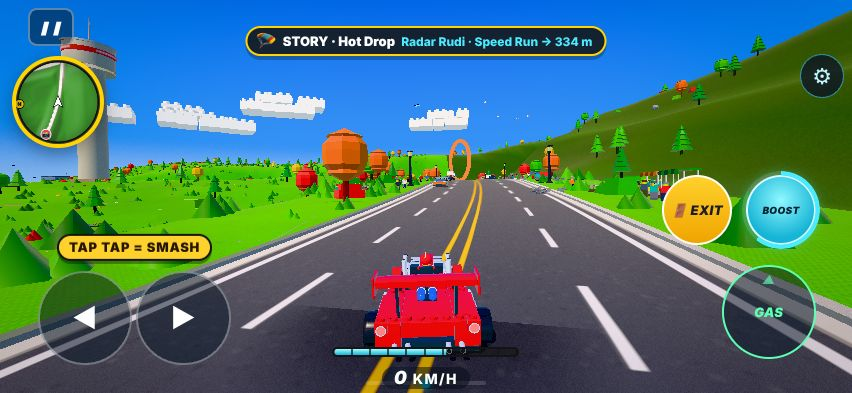
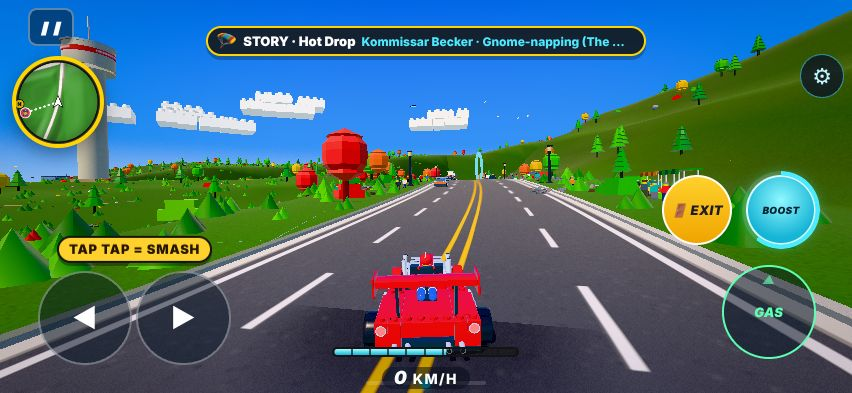
terr-1: nearer ridges (ring 0.4-1.6 km outside the city box, +55 m Frankfurt / +40 m Athens); in-city grass gets the slope tint; qt cache regenerated
Claude-Session: https://claude.ai/code/session_016nYa3nnBmCXxtYsLbvaATC

diff --git a/src/98tr_terrain.js b/src/98tr_terrain.js
@@ -66,4 +66,7 @@ window.__trn={TRN,go:TRN_go,grade:TRN_grade,edge:TRN_edge,ramp:TRN_ramp,base:TRN
 const TRN_C={dry:new THREE.Color(CID==='fra'?'#b3a85e':'#c2ae72'),dirt:new THREE.Color('#9a7a52'),rock:new THREE.Color('#8e8a82')};
 function TRN_slopeCol(c,x,z){if(!c||!c.isColor)return c;let s=0,h=0;try{h=groundY(x,z);const a=groundY(x+5,z)-groundY(x-5,z),b=groundY(x,z+5)-groundY(x,z-5);s=Math.hypot(a,b)/10}catch(e){return c}
   const ss=(a,b,v)=>{const t=clamp((v-a)/(b-a),0,1);return t*t*(3-2*t)};let d=ss(.12,.3,s)*.55;if(CID!=='fra')d=Math.max(d,ss(110,220,h)*.45);if(d>0)c.lerp(TRN_C.dry,d);const r=ss(.3,.55,s);if(r>0)c.lerp(TRN_C.dirt,r*.7);const k=ss(.55,.9,s);if(k>0)c.lerp(TRN_C.rock,k*.8);return c}
-if(TERR.on&&new URLSearchParams(location.search).get('trc')!=='0'){const _g=gndBuild;gndBuild=(grp,x0,x1,z0,z1,o)=>{if(o&&o.col&&!o.trc){const c0=o.col;o={...o,trc:1,col:(x,z)=>TRN_slopeCol(c0(x,z),x,z)}}return _g(grp,x0,x1,z0,z1,o)}}
+if(TERR.on&&new URLSearchParams(location.search).get('trc')!=='0'){const _g=gndBuild;gndBuild=(grp,x0,x1,z0,z1,o)=>{if(o&&o.col&&!o.trc){const c0=o.col;o={...o,trc:1,col:(x,z)=>TRN_slopeCol(c0(x,z),x,z)}}
+  // in-city ground (pavement + grass classes, no colours): the grass material gets a slope tint (white = untinted texture; walk/rock ignore colours)
+  else if(o&&o.mats&&o.mats.g&&!o.col&&!o.trc){const W=new THREE.Color(),g=o.mats.g.clone();g.vertexColors=true;o={...o,trc:1,mats:{...o.mats,g},col:(x,z)=>TRNinner(W.setRGB(1,1,1),x,z)}}return _g(grp,x0,x1,z0,z1,o)}}
+function TRNinner(c,x,z){TRN_slopeCol(c,x,z);return c}

diff --git a/src/53_terrain_roads.js b/src/53_terrain_roads.js
@@ -42,7 +42,10 @@ function TR_relief(h,nx,nz,r){if(!TERR.on||new URLSearchParams(location.search).
     h[K]=Math.max(0,h[K]+(k-1)*m*c*Math.tanh(e/c))}
   // horizon ridges: the last 1.6 km before the world edge rises up to +70 m (Athens +50 m), uneven along the edge, so hills frame every view
   const RH=CID==='fra'?70:50,RD=1600;for(let j=0;j<nz;j++)for(let i=0;i<nx;i++){const d=Math.min(i,nx-1-i,j,nz-1-j)*r;if(d>=RD)continue;const x=WX0+i*r,z=WZS+j*r,t=1-d/RD,
-      n=.55+.25*Math.sin(x/730+1.3)*Math.cos(z/910)+.2*Math.sin((x+z)/410);h[j*nx+i]+=RH*t*t*(3-2*t)*n}}
+      n=.55+.25*Math.sin(x/730+1.3)*Math.cos(z/910)+.2*Math.sin((x+z)/410);h[j*nx+i]+=RH*t*t*(3-2*t)*n}
+  // nearer ridges: a ring of hills rising from 0.4 to 1.6 km outside the city box (Frankfurt +55 m, Athens +40 m), so streets see hills ~3 km away
+  const RN=CID==='fra'?55:40;for(let j=0;j<nz;j++)for(let i=0;i<nx;i++){const x=WX0+i*r,z=WZS+j*r,dx=Math.max(HX0-x,0,x-HX1),dz=Math.max(HZS-z,0,z-HZN),d=Math.hypot(dx,dz);if(d<=400)continue;
+      const t=Math.min(1,(d-400)/1200),n=.5+.3*Math.sin(x/610-.7)*Math.cos(z/770+.4)+.2*Math.sin((x-z)/350);h[j*nx+i]+=RN*t*t*(3-2*t)*n}}
 // road corridors baked into the raster: each street gets a smooth profile (<= 9.5 % grade, ends pinned at bridges), flat across its width
 // (+ a shoulder of one raster cell, so bilinear lookups on the road see only flat cells), feathered back to the terrain over 3x the cut/fill
 // height (12..40 m). Junctions average the profiles that meet there; 3 passes re-sample the merged surface. Frankfurt filler roads are

diff --git a/docs/MODULES.md b/docs/MODULES.md
@@ -20,7 +20,7 @@ file | KB | purpose | first defines
 50_kenney_data.js | 78 | DATA: KM_IDX (model index), KM_TEX (atlas PNGs), KM_ | KM_IDX KM_TEX KM_BIN
 51_city_net.js | 47 | Kenney loader (kmGeo kmKit kmMat), real Frankfurt la | KMBUF kmBuf kmGeo
 52_terrain_data.js | 115 | DATA: TR_DATA (DEM rasters, one line) | TR_DATA
-53_terrain_roads.js | 73 | terrain TR_ (TR_real TR_G), hills/Taunus/Acropolis,  | TR_EX TR_GR TR_GJ
+53_terrain_roads.js | 74 | terrain TR_ (TR_real TR_G), hills/Taunus/Acropolis,  | TR_EX TR_GR TR_GJ
 60_city_build.js | 33 | build the free-roam map: ground gndBuild gndVert, wa | qGeo tH gndVert
 60_city_build2.js | 31 | part of 60_city_build.js: build the free-roam map: g | lmBuildAll stegBuild stegTower
 60_city_build3.js | 27 | part of 60_city_build.js: build the free-roam map: g | athBuildG athRoadD athConn
@@ -103,8 +103,9 @@ file | KB | purpose | first defines
 98lm_liveliness.js | 5 | LVM: LIVELINESS METER (art-1, 2026-10-13). Alex: "Al | LVM_SPOTS LVM_T LVM_HR
 98cam_size_cam.js | 16 | CAM (cam-1, 2026-10-13). Alex: "Camera should auto a | CAM _cmV _cmB
 98dmg_damage.js | 12 | DMG (cam-1, 2026-10-13). Alex: "city driving is frus | DMG _dmM _dmQ
-98gx_gfx.js | 8 | GFX (gfx-1, 2026-10-13): daytime lighting/rendering  | GFX GFX_SUN GFX_tier
+98gx_gfx.js | 10 | GFX (gfx-1, 2026-10-13): daytime lighting/rendering  | GFX GFX_SUN GFX_tier
 99_api.js | 49 | test API window.__mho={…} (state, roamSim, warp, gnd | __mho CR_RBX CR_raceHide
 test/fast.js | 5 | FAST · test-only fast mode, active only with ?fast=1 | FAST
 test/g9iter.js | 0 | test-only (local builds): eval in module scope for t | __g9ev
+test/gym.js | 3 | GYM · test-only small world (hot-1, 2026-10-14), act | GYM
 test/w8.js | 4 | W8 · test-only model viewer (local builds only). __w | __w8
